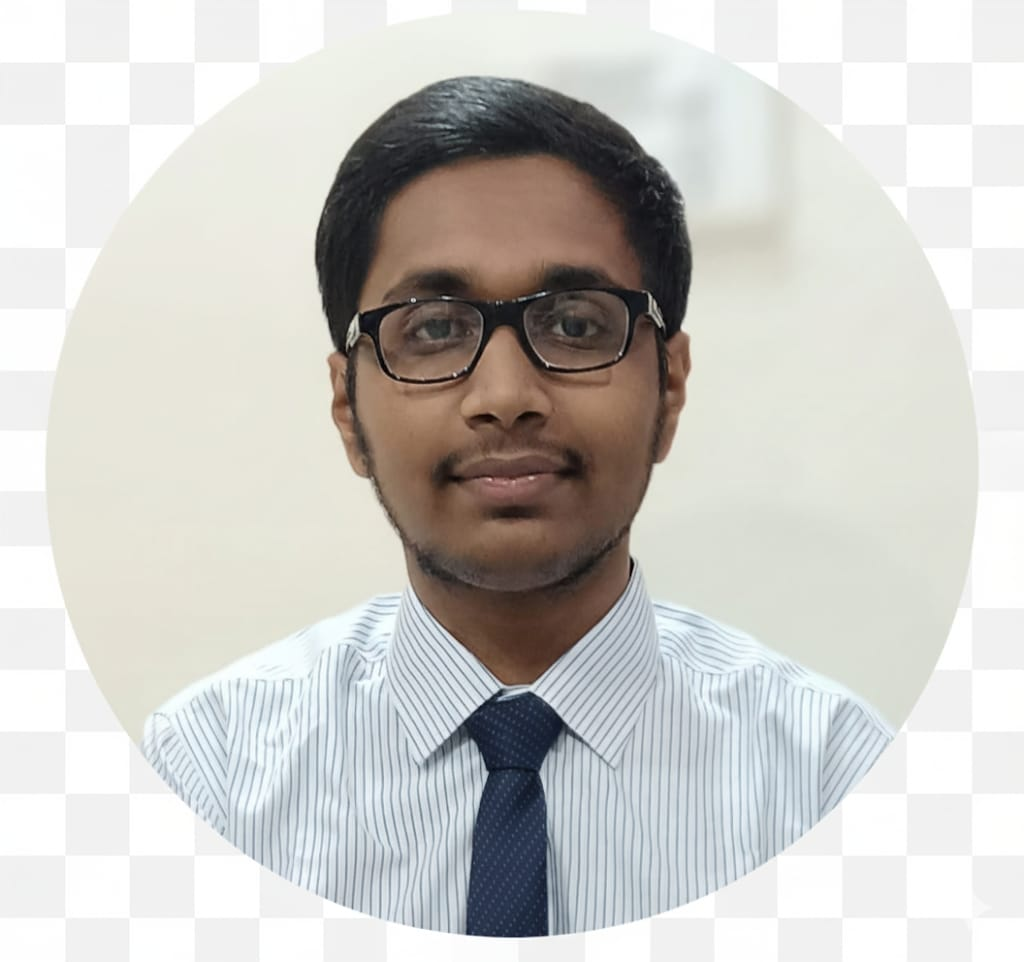
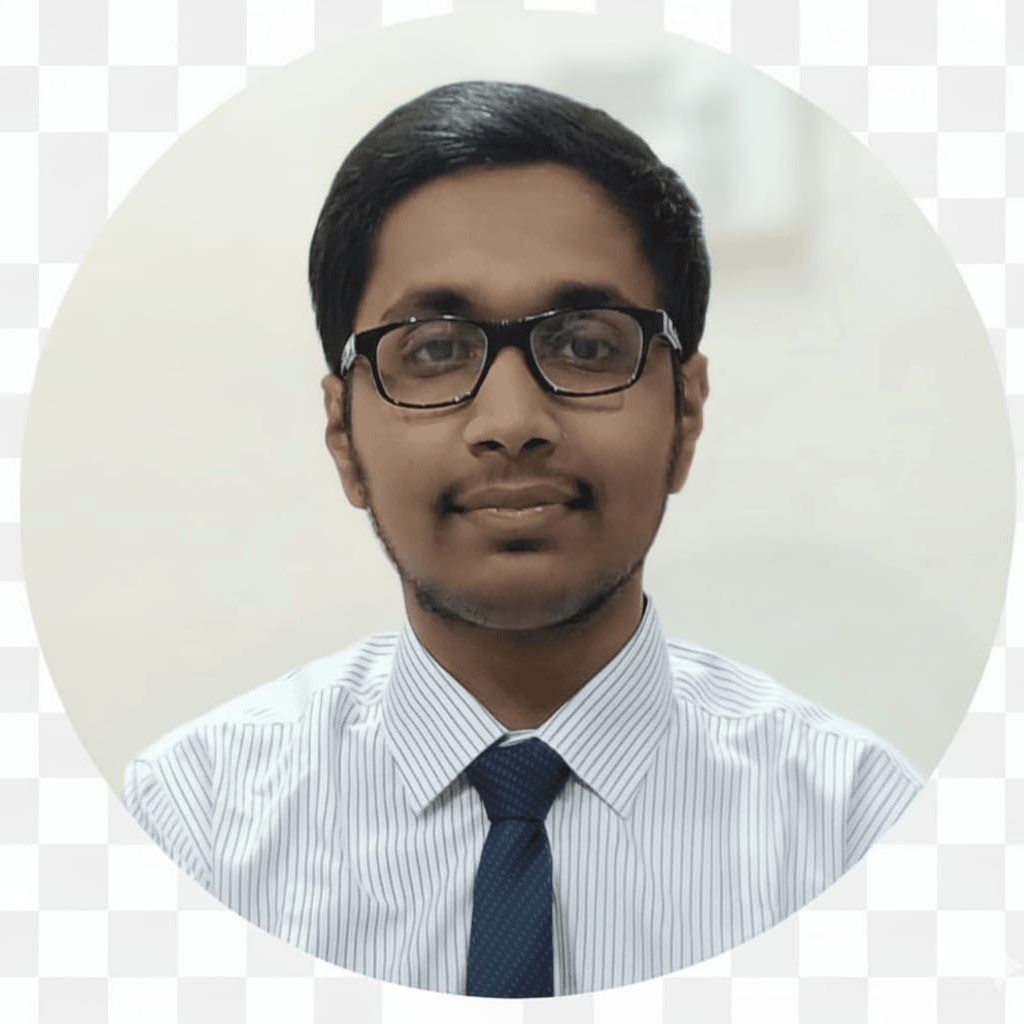
give me complete readme file which giveing every single detail about the

diff --git a/src/app/page.tsx b/src/app/page.tsx
@@ -249,7 +249,7 @@ export default function LandingPage() {
                                         Krishna Somnath Baviskar
                                         </p>
                                         <p className="text-muted-foreground">
-                                            Founder and lead Developer @nexmov.ai
+                                            Founder and Lead Developer 
                                         </p>
                                     </div>
                                 </div>
@@ -267,7 +267,7 @@ export default function LandingPage() {
                                         Sanket Mohan Kotkar
                                         </p>
                                         <p className="text-muted-foreground">
-                                           Co-Founder and Developer @nexmov.ai
+                                           Co-Founder and Tech Developer
                                         </p>
                                     </div>
                                 </div>
@@ -285,7 +285,7 @@ export default function LandingPage() {
                                         Parth Nikhil Shah
                                         </p>
                                         <p className="text-muted-foreground">
-                                           Co-Founder and Developer @nexmov.ai
+                                           Co-Founder and Core Developer 
                                         </p>
                                     </div>
                                 </div>
@@ -309,14 +309,14 @@ export default function LandingPage() {
                                     <Mail className="w-6 h-6 text-primary" />
                                     <div>
                                         <h4 className="font-bold text-white">General Inquiries</h4>
-                                        <a href="mailto:support@nexmov.ai" className="text-muted-foreground hover:text-primary">support@nexmov.ai</a>
+                                        <a href="mailto:ideans.team@gmail.com" className="text-muted-foreground hover:text-primary">ideans.team@gmail.com</a>
                                     </div>
                                 </div>
                                  <div className="flex items-center gap-4">
                                     <Wand2 className="w-6 h-6 text-primary" />
                                     <div>
                                         <h4 className="font-bold text-white">Partnerships & Business</h4>
-                                        <a href="mailto:partners@nexmov.ai" className="text-muted-foreground hover:text-primary">partners@nexmov.ai</a>
+                                        <a href="mailto:ideans.team@gmail.com" className="text-muted-foreground hover:text-primary">ideans.team@gmail.com</a>
                                     </div>
                                 </div>
                                 <div className="flex items-center gap-4">

diff --git a/src/components/chatbot.tsx b/src/components/chatbot.tsx
@@ -77,9 +77,9 @@ export default function Chatbot() {
         >
           <div className="flex flex-col h-full">
             <div className="bg-muted p-4 rounded-t-xl">
-              <h3 className="font-semibold text-foreground">NexAI</h3>
+              <h3 className="font-semibold text-foreground"> NexAI   </h3>
               <p className="text-sm text-muted-foreground">
-                Ask me anything!
+              Smart answers for your next move-Ask me anything!
               </p>
             </div>
             <ScrollArea className="flex-1 p-4">
@@ -142,7 +142,7 @@ export default function Chatbot() {
                 <Input
                   value={input}
                   onChange={(e) => setInput(e.target.value)}
-                  placeholder="Type your message..."
+                  placeholder="Ask. Learn. Grow."
                   className="flex-1"
                   autoComplete="off"
                 />

diff --git a/src/app/(main)/career-roadmap/page.tsx b/src/app/(main)/career-roadmap/page.tsx
@@ -213,7 +213,7 @@ export default function CareerRoadmapPage() {
       <div className="max-w-6xl mx-auto space-y-8">
         <div className="text-center">
             <h1 className="text-3xl font-bold tracking-tight">
-                {user ? `Hello ${user.displayName}, Welcome to Your Career Roadmap` : "Create Your Career Roadmap"}
+                {user ? `Hello!! ${user.displayName}, Welcome to Your Career Roadmap` : "Create Your Career Roadmap"}
             </h1>
             <p className="text-muted-foreground mt-2">
                 Fill in your details and let our AI chart a path for your professional growth and salary potential.

diff --git a/src/app/(main)/skill-gap-analysis/page.tsx b/src/app/(main)/skill-gap-analysis/page.tsx
@@ -116,7 +116,7 @@ export default function SkillGapAnalysisPage() {
       <div className="max-w-6xl mx-auto space-y-8">
         <div className="text-center">
             <h1 className="text-3xl font-bold tracking-tight">
-                {user ? `Hello ${user.displayName}, Welcome to Your Skill Gap Analysis` : "Skill Gap Analysis"}
+                {user ? `Hello!! ${user.displayName}, Welcome to Your Skill Gap Analysis` : "Skill Gap Analysis"}
             </h1>
             <p className="text-muted-foreground mt-2">
                 Discover the skills you need to achieve your career goals with AI-driven insights.

diff --git a/src/app/(main)/job-market-trends/page.tsx b/src/app/(main)/job-market-trends/page.tsx
@@ -80,7 +80,7 @@ export default function JobMarketTrendsPage() {
       <div className="max-w-6xl mx-auto space-y-8">
         <div className="text-center">
             <h1 className="text-3xl font-bold tracking-tight">
-              {user ? `Hello ${user.displayName}, Welcome to Job Market Trends` : "Job Market Trends"}
+              {user ? `Hello!! ${user.displayName}, Welcome to Job Market Trends` : "Job Market Trends"}
             </h1>
             <p className="text-muted-foreground mt-2">
                 Get AI-powered insights into the job market for any domain and location.

diff --git a/README.md b/README.md
@@ -1,5 +1,191 @@
-# Firebase Studio
 
-This is a NextJS starter in Firebase Studio.
+# NexMov.AI - Your AI-Powered Career Co-Pilot
 
-To get started, take a look at src/app/page.tsx.
+![Nexmov.AI Landing Page](https://i.imgur.com/uVzSJL1.png)
+
+Welcome to the official repository for **Nexmov.AI**, a next-generation, AI-powered career navigation platform designed to guide users from their educational journey to the C-suite. This application provides personalized, data-driven roadmaps, skill-building advice, real-time market insights, and curated career news to help users make smarter career decisions.
+
+## Table of Contents
+
+- [Project Overview](#project-overview)
+- [Key Features](#key-features)
+- [Technology Stack](#technology-stack)
+- [Project Structure](#project-structure)
+- [Getting Started](#getting-started)
+  - [Prerequisites](#prerequisites)
+  - [Installation & Setup](#installation--setup)
+- [Application Workflow](#application-workflow)
+  - [Authentication Flow](#authentication-flow)
+  - [AI Features Flow](#ai-features-flow)
+- [Key Components & Libraries](#key-components--libraries)
+
+---
+
+## Project Overview
+
+Nexmov.AI is a comprehensive web application built to address the uncertainties that students and professionals face in their career paths. By leveraging cutting-edge AI, the platform offers a suite of tools that provide actionable insights and clear, visual roadmaps for professional growth. Whether a user is a high school student exploring future options, a professional looking to switch careers, or a job seeker wanting to understand market trends, Nexmov.AI provides the tools they need to succeed.
+
+---
+
+## Key Features
+
+- **Personalized Career Roadmap:** Generates a detailed, step-by-step career plan based on a user's profile, skills, and goals. It includes timelines, skill recommendations, and salary projections.
+- **Skill Gap Analysis:** Compares a user's current skills against their desired career path, identifies gaps, and suggests curated learning resources to bridge them.
+- **Job Market Trends Analysis:** Provides real-time insights into the job market, including trending roles, in-demand skills, salary ranges, and top hiring companies for a specific domain and location.
+- **AI-Powered Chatbot (NexAI):** An interactive, always-on chatbot that answers complex career-related questions, providing informative and engaging responses.
+- **User Authentication:** Secure signup and login functionality using Firebase Authentication, providing a personalized experience for each user.
+- **Fully Responsive UI:** A modern, visually appealing, and intuitive user interface built with ShadCN UI and Tailwind CSS that works seamlessly across all devices.
+- **Interactive Data Visualizations:** Utilizes Recharts to present complex data through dynamic and easy-to-understand charts and graphs.
+
+---
+
+## Technology Stack
+
+The application is built with a modern, robust, and scalable tech stack:
+
+- **Framework:** [Next.js](https://nextjs.org/) (with App Router)
+- **Language:** [TypeScript](https://www.typescriptlang.org/)
+- **Styling:** [Tailwind CSS](https://tailwindcss.com/)
+- **UI Components:** [ShadCN UI](https://ui.shadcn.com/)
+- **Generative AI:** [Google AI & Genkit](https://firebase.google.com/docs/genkit)
+- **Authentication:** [Firebase Authentication](https://firebase.google.com/docs/auth)
+- **Data Visualization:** [Recharts](https://recharts.org/)
+- **Icons:** [Lucide React](https://lucide.dev/)
+- **Form Management:** [React Hook Form](https://react-hook-form.com/) & [Zod](https://zod.dev/)
+
+---
+
+## Project Structure
+
+The project follows a standard Next.js App Router structure, organized for clarity and scalability.
+
+```
+.
+├── public/                  # Static assets (images, fonts, etc.)
+│   ├── krishna.png
+│   ├── nexmov.png
+│   ├── parth.png
+│   └── sanket.png
+├── src/
+│   ├── ai/                  # AI-related logic
+│   │   ├── flows/           # Genkit flows for AI features
+│   │   │   ├── analyze-job-market-trends.ts
+│   │   │   ├── answer-user-queries-with-chatbot.ts
+│   │   │   ├── generate-career-roadmap.ts
+│   │   │   └── perform-skill-gap-analysis.ts
+│   │   ├── dev.ts           # Genkit development server entry point
+│   │   └── genkit.ts        # Genkit initialization and configuration
+│   ├── app/                 # Next.js App Router directory
+│   │   ├── (main)/          # Main application layout with authentication
+│   │   │   ├── career-roadmap/page.tsx
+│   │   │   ├── dashboard/page.tsx
+│   │   │   ├── job-market-trends/page.tsx
+│   │   │   ├── skill-gap-analysis/page.tsx
+│   │   │   ├── layout.tsx     # Main authenticated layout
+│   │   │   └── loading.tsx    # Loading UI for main routes
+│   │   ├── globals.css      # Global styles and Tailwind directives
+│   │   ├── layout.tsx       # Root layout
+│   │   ├── loading.tsx      # Root loading UI
+│   │   ├── login/page.tsx   # Login page
+│   │   ├── page.tsx         # Landing page
+│   │   └── signup/page.tsx  # Signup page
+│   ├── components/
+│   │   ├── ui/              # ShadCN UI components
+│   │   ├── chatbot.tsx      # AI Chatbot component
+│   │   ├── header.tsx       # Main app header
+│   │   ├── icons.tsx        # Custom icon components
+│   │   ├── main-nav.tsx     # Main sidebar navigation
+│   │   └── user-nav.tsx     # User dropdown menu
+│   ├── hooks/
+│   │   ├── use-mobile.tsx   # Hook to detect mobile devices
+│   │   └── use-toast.ts     # Hook for showing toast notifications
+│   └── lib/
+│       ├── firebase.ts      # Firebase initialization and config
+│       └── utils.ts         # Utility functions (e.g., cn for classnames)
+├── .env                     # Environment variables
+├── next.config.ts           # Next.js configuration
+├── package.json             # Project dependencies and scripts
+├── tailwind.config.ts       # Tailwind CSS configuration
+└── tsconfig.json            # TypeScript configuration
+```
+
+---
+
+## Getting Started
+
+Follow these instructions to get the project up and running on your local machine.
+
+### Prerequisites
+
+- [Node.js](https://nodejs.org/) (v18 or later)
+- [npm](https://www.npmjs.com/) or [yarn](https://yarnpkg.com/)
+
+### Installation & Setup
+
+1.  **Clone the repository:**
+    ```bash
+    git clone https://github.com/your-username/nexmov-ai.git
+    cd nexmov-ai
+    ```
+
+2.  **Install dependencies:**
+    ```bash
+    npm install
+    ```
+
+3.  **Set up environment variables:**
+    Create a `.env` file in the root of the project and add your Firebase configuration details. You can get these from your Firebase project settings.
+
+    ```env
+    # Firebase configuration from your project settings
+    NEXT_PUBLIC_FIREBASE_API_KEY="AIza..."
+    NEXT_PUBLIC_FIREBASE_AUTH_DOMAIN="your-project-id.firebaseapp.com"
+    NEXT_PUBLIC_FIREBASE_PROJECT_ID="your-project-id"
+    # ... and other Firebase config variables
+    
+    # Gemini API Key for Genkit
+    GEMINI_API_KEY="AIza..."
+    ```
+
+4.  **Run the development server:**
+    This command starts both the Next.js frontend and the Genkit development server concurrently.
+    ```bash
+    npm run dev
+    ```
+
+5.  **Open the application:**
+    Navigate to [http://localhost:9002](http://localhost:9002) in your browser to see the application.
+
+---
+
+## Application Workflow
+
+### Authentication Flow
+
+1.  **User Visits:** A new user lands on the homepage, where they can explore features or choose to sign up/log in.
+2.  **Signup:** The user fills out a multi-step registration form. Upon successful submission, a new user account is created in Firebase Authentication.
+3.  **Login:** An existing user enters their credentials, which are verified against Firebase Auth.
+4.  **Session Management:** Upon successful login, the user is redirected to the main dashboard. Their authentication state is managed globally, providing access to protected routes.
+
+### AI Features Flow
+
+1.  **User Input:** The user navigates to a feature page (e.g., Career Roadmap) and fills out a form with their details.
+2.  **API Call to Genkit Flow:** The frontend client calls a Server Action that invokes the corresponding Genkit flow (e.g., `generateCareerRoadmap`).
+3.  **Genkit Processing:**
+    - The flow receives the user's input.
+    - A structured prompt is constructed using the input data.
+    - Genkit sends the prompt to the Google Gemini LLM.
+    - The model processes the prompt and returns a structured JSON object as defined by the Zod output schema.
+4.  **Response to Frontend:** The structured JSON data is sent back to the client.
+5.  **Data Visualization:** The frontend uses the received data to dynamically render charts, graphs, and other UI elements, presenting the insights to the user in a clear and interactive way.
+
+---
+
+## Key Components & Libraries
+
+- **`src/app/(main)/layout.tsx`:** This file defines the main layout for the authenticated part of the app, including the persistent sidebar and header.
+- **`src/ai/genkit.ts`:** Initializes the `ai` object and configures the Genkit plugins, setting the default LLM for the application.
+- **`src/ai/flows/*.ts`:** Each file in this directory represents a self-contained AI agent. It defines the input/output schemas (using Zod), the prompt template, and the server-side logic for a specific AI feature.
+- **`src/components/ui/`:** This directory contains all the reusable UI components from ShadCN, which form the building blocks of the application's design system.
+- **`src/lib/firebase.ts`:** This is where the Firebase app is initialized. It's crucial for connecting the application to Firebase services like Authentication.
+- **`recharts`:** This library is used across the feature pages to render the responsive and interactive charts that visualize AI-generated data.
